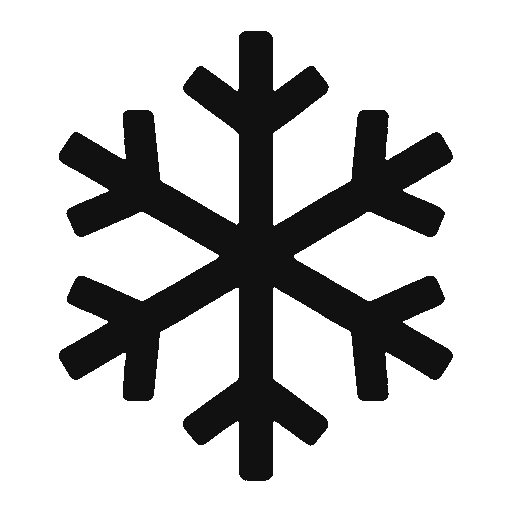
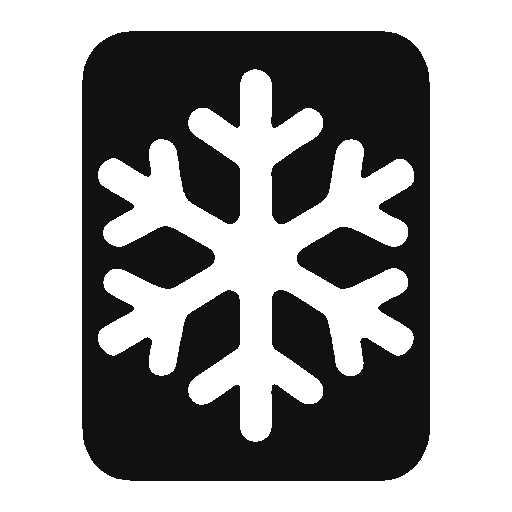
fix(glyph): 냉장 표시를 상자에 넣는다 — 해와 실루엣이 같았다
전문가 조사 P2. 벨그라드 대학교 Katarina Vučićević 교수가 "냉장 보관과 정오
형태소가 헷갈린다" 고 적었다. 나란히 놓고 보니 그대로다 — 눈송이도 해도 **가운데에서
사방으로 뻗는 별 모양**이라, 실루엣이 같으면 크기를 키워도 갈리지 않는다.

교수의 제안은 색이었다. 검정과 빨강은 경고에, 검정과 노랑은 낮에. 색은 두 번째
층으로는 좋지만 **첫 번째 층이 될 수 없다.** 색을 못 보는 사람에게는 두 그림이
여전히 같고, 그 사람이 §3.7 이 지키기로 한 사람이다. 그리고 합성된 칸은 PNG 한
장이라 그 안의 형태소만 물들일 방법도 없다 — 색을 넣으려면 엔진이 색을 내보내야 하고,
그러면 흑백 실루엣이라는 규칙 자체를 바꾸는 일이 된다.

그래서 실루엣을 바꿨다. 눈송이는 버리지 않는다 — 포장에 찍힌 냉장 표시로 이미 배운
그림이라, 상자 **안에** 구멍으로 판다. 배운 것은 남고 부딪히는 것은 사라진다.
겉모양이 이제 꽉 찬 사각형이라 해와 겹칠 자리가 없다.

--pairs 는 이 쌍을 전에도 지금도 잡지 못한다(3003쌍 중 944위였다). 픽셀 거리로는
안 잡히는 종류의 혼동이라, 이 고침의 근거는 지표가 아니라 사람이 읽은 것과 나란히
놓고 본 실루엣이다.

diff --git a/engine/gen_glyphs.py b/engine/gen_glyphs.py
@@ -847,10 +847,22 @@ TARGETS: list[Target] = [
     # ── 수식어: 보관 ────────────────────────────────────────────────────────
     Target(
         'storage_fridge', 'modifier', 'storage_fridge',
-        'a snowflake: six straight bold arms radiating from a common centre at even angles, each arm '
-        'with two short side branches, with wide white space between neighbouring arms',
-        'a star, an asterisk, a flower, a wheel',
-        means='snowflake',
+        # 눈송이를 맨몸으로 두었더니 해(time_noon)와 부딪혔다. 벨그라드 대학교
+        # Katarina Vučićević 교수가 2026년 8월 조사에서 "냉장 보관과 정오 형태소가
+        # 헷갈린다" 고 적었고, 실제로 나란히 놓고 보면 둘 다 **가운데에서 사방으로
+        # 뻗는 별 모양**이다. 실루엣이 같으면 크기를 키워도 갈리지 않는다.
+        #
+        # 교수의 제안은 색을 쓰라는 것이었다(검정+노랑은 낮에). 색은 두 번째 층으로는
+        # 좋지만 첫 번째 층이 될 수 없다 — 색을 못 보는 사람에게는 두 그림이 여전히
+        # 같고, 그 사람이 §3.7 이 지키기로 한 사람이다. 그래서 실루엣을 바꾼다.
+        #
+        # 눈송이는 버리지 않는다. 포장에 찍힌 냉장 표시로 이미 배운 그림이라, 상자
+        # **안에** 넣어 겉모양만 바꾼다 — 배운 것은 남고 부딪히는 것은 사라진다.
+        'a solid black upright rectangle with rounded corners filling most of the frame, with one '
+        'bold six-armed snowflake punched right through it as wide white channels so the snowflake '
+        'reads as empty space cut out of the box, and nothing at all outside the rectangle',
+        'a bare snowflake, a sun, a star, an asterisk, a flower, a wheel, a window, a door',
+        means='a box with a snowflake cut out of it',
     ),
     Target(
         'storage_dry', 'modifier', 'storage_dry',
